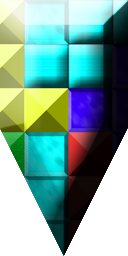
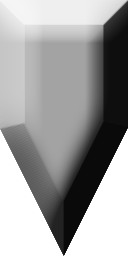
add some tetris 2 sounds. revise the new tetris 2 theme so that the blocks visually connect.

diff --git a/Theme/Block/SNESTetris2Theme.cs b/Theme/Block/SNESTetris2Theme.cs
@@ -74,11 +74,16 @@ namespace BASeTris.Theme.Block
                 }
             }
         }
-
+        //before I go and forget, I'll tag in a comment here that this seems to have glitches related to the new resurrection code, that creates new nominoes, as we are seeing old behaviour where the connections don't quite reflect what the nomino in question should look like.
         public override void ApplyTheme(Nomino Group, IBlockGameCustomizationHandler GameHandler, TetrisField Field, ThemeApplicationReason Reason)
         {
             PrepareThemeData();
-            Dictionary<Point, NominoElement> GroupElements = (from g in Group select g).ToDictionary((ne) => new Point(ne.X, ne.Y));
+            if (Reason == ThemeApplicationReason.FieldSet)
+            {
+                
+                ;
+            }
+            Dictionary<Point, NominoElement> GroupElements = (from g in Group select g).ToDictionary((ne) => new Point(ne.BaseX(), ne.BaseY()));
             foreach (var iterate in Group)
             {
                 Dictionary<LineSeriesBlock.CombiningTypes, SKImage> Sourcedict = null;
@@ -125,23 +130,12 @@ namespace BASeTris.Theme.Block
                         //determine the flags by checking the Nomino.
                         CardinalConnectionSet.ConnectedStyles cs = CardinalConnectionSet.ConnectedStyles.None;
                         //check above
-                        Point North = new Point(iterate.X, iterate.Y-1);
-                        Point South = new Point(iterate.X, iterate.Y + 1);
-                        Point West = new Point(iterate.X - 1, iterate.Y);
-                        Point East = new Point(iterate.X + 1, iterate.Y);
+                        Point North = new Point(iterate.BaseX(), iterate.BaseY()-1);
+                        Point South = new Point(iterate.BaseX(), iterate.BaseY() + 1);
+                        Point West = new Point(iterate.BaseX() - 1, iterate.BaseY());
+                        Point East = new Point(iterate.BaseX() + 1, iterate.BaseY());
 
                         Point[] DirectionPoints = new Point[] { North, South, West, East };
-
-                        if (iterate.Block.Rotation == 1)
-                            DirectionPoints = new Point[] { East, North, South, West };
-                        else if (iterate.Block.Rotation == 2)
-                            DirectionPoints = new Point[] { West, East, North, South };
-                        else if (iterate.Block.Rotation == 3)
-                            DirectionPoints = new Point[] { East, North, South, West };
-
-
-
-                        (Point, CardinalConnectionSet.ConnectedStyles) value;
                         List<(Point, CardinalConnectionSet.ConnectedStyles)> Setuplist = new List<(Point, CardinalConnectionSet.ConnectedStyles)>()
                         {
                             (DirectionPoints[0],CardinalConnectionSet.ConnectedStyles.North),
@@ -160,10 +154,12 @@ namespace BASeTris.Theme.Block
                                 }
                             }
                         }
+                        CardinalConnectionSet.ConnectedStyles[] useConnectionStyles = CardinalConnectionSet.GetRotations(cs).Prepend(cs).ToArray();
 
-
+                        var useRotationImages = from c in useConnectionStyles select NormalConnectedBlocks[chosenType][c];
                         var useImage = NormalConnectedBlocks[chosenType][cs];
-                        ibb._RotationImagesSK =   GetImageRotations(SKBitmap.FromImage(useImage));
+                        ibb._RotationImagesSK = useRotationImages.ToArray();//GetImageRotations(SKBitmap.FromImage(useImage));
+                        //ibb._RotationImagesSK = GetImageRotations(SKBitmap.FromImage(useImage));
 
 
                     }
@@ -178,7 +174,7 @@ namespace BASeTris.Theme.Block
             }
         }
         private bool VisuallyConnectOnlySameCombiningType = false;
-        private bool UseConnectedImages = false;
+        private bool UseConnectedImages = true;
         public override PlayFieldBackgroundInfo GetThemePlayFieldBackground(TetrisField Field, IBlockGameCustomizationHandler GameHandler)
         {
             return new PlayFieldBackgroundInfo(TetrisGame.Imageman["background_3", 0.5f], Color.Transparent);

diff --git a/Theme/Block/CardinalConnectionSet.cs b/Theme/Block/CardinalConnectionSet.cs
@@ -44,6 +44,80 @@ namespace BASeTris.Theme.Block
             {ConnectedStyles.South | ConnectedStyles.West | ConnectedStyles.East,"SWE" },
             {ConnectedStyles.South | ConnectedStyles.North | ConnectedStyles.West | ConnectedStyles.East,"NSWE" }
         };
+
+        public static Dictionary<String,ConnectedStyles> StyleLookup = new Dictionary<String,ConnectedStyles>()
+        {
+            {"",ConnectedStyles.None},
+            {"M",ConnectedStyles.North},
+            {"W",ConnectedStyles.West },
+            {"E",ConnectedStyles.East},
+            {"S",ConnectedStyles.South },
+            {"EW",ConnectedStyles.West | ConnectedStyles.East },
+            {"NS",ConnectedStyles.North| ConnectedStyles.South},
+            {"NE",ConnectedStyles.North | ConnectedStyles.East },
+            {"NW",ConnectedStyles.North | ConnectedStyles.West},
+            {"SW",ConnectedStyles.South | ConnectedStyles.West },
+            {"SE",ConnectedStyles.South | ConnectedStyles.East },
+            {"NSW",ConnectedStyles.North | ConnectedStyles.South  | ConnectedStyles.West },
+            {"NSE",ConnectedStyles.North | ConnectedStyles.South  | ConnectedStyles.East},
+            {"NWE",ConnectedStyles.North | ConnectedStyles.West | ConnectedStyles.East},
+            {"SWE",ConnectedStyles.South | ConnectedStyles.West | ConnectedStyles.East},
+            {"NSWE",ConnectedStyles.South | ConnectedStyles.North | ConnectedStyles.West | ConnectedStyles.East }
+        };
+
+
+        private static Dictionary<ConnectedStyles, ConnectedStyles> RotationStyleLookup = new Dictionary<ConnectedStyles, ConnectedStyles>()
+        {
+            {ConnectedStyles.None,ConnectedStyles.None },
+            {ConnectedStyles.North,ConnectedStyles.East },
+            {ConnectedStyles.East,ConnectedStyles.South },
+            {ConnectedStyles.South,ConnectedStyles.West },
+            {ConnectedStyles.West,ConnectedStyles.North }
+        };
+        public static ConnectedStyles RotateStyle(ConnectedStyles Src)
+        {
+
+            ConnectedStyles Result = ConnectedStyles.None;
+            foreach (ConnectedStyles checkenum in (ConnectedStyles[])Enum.GetValues(typeof(ConnectedStyles)))
+            {
+
+                if (RotationStyleLookup.ContainsKey(checkenum) && Src.HasFlag(checkenum))
+                    Result |= RotationStyleLookup[checkenum];
+
+            }
+
+            return Result;
+
+        }
+        /*private static Dictionary<String, String[]> RotationSuffixLookup = new Dictionary<string, string[]>()
+        {
+            {"", new[]{"","","" } },
+            {"N", new[]{"E","S","W" } },
+            {"E", new[]{"S","W","N" } },
+            {"W", new[]{"N","E","S" } },
+            {"S", new[]{"W","N","E" } },
+            {"EW", new[]{"NS","EW","NS" } },
+            {"NS", new[]{"EW","NS","EW" } },
+            {"NE", new[]{"SE","SW","NW" } },
+            {"SE", new[]{"SW","NW","NE" } },
+            {"SW", new[]{"NW","NE","SE" } },
+            {"NW", new[]{"NE","SE","SW" } },
+            {"NSWE", new[]{"NSWE","NSWE","NSWE" } },
+            {"NSW", new[]{"NWE","NSE","SWE" } },
+            {"NWE", new[]{"NSE","SWE","NSW" } },
+            {"NSE", new[]{"SWE","NSW","NWE" } },
+            {"SWE", new[]{"NSW","NWE","NSE" } }
+
+
+        };*/
+        public static ConnectedStyles[] GetRotations(ConnectedStyles value)
+        {
+            ConnectedStyles Rotate1 = RotateStyle(value);
+            ConnectedStyles Rotate2 = RotateStyle(Rotate1);
+            ConnectedStyles Rotate3 = RotateStyle(Rotate2);
+            return new ConnectedStyles[] { Rotate1, Rotate2, Rotate3 };
+
+        }
         public static String GetSuffix(ConnectedStyles value)
         {
             if (SuffixLookup.ContainsKey(value)) return SuffixLookup[value]; return null;
@@ -100,6 +174,7 @@ namespace BASeTris.Theme.Block
             }
 
         }
+       
         public Element this[ConnectedStyles index]
         {
             get

diff --git a/GameStates/GameHandlers/CascadingBlockHandler.cs b/GameStates/GameHandlers/CascadingBlockHandler.cs
@@ -635,6 +635,7 @@ namespace BASeTris.GameStates.GameHandlers
 
                             if (!AllPoints.Any((w) => AddedPoints.Contains(w)))
                             {
+                                state.PlayField.Theme.ApplyTheme(addresurrected, state.GameHandler, state.PlayField, NominoTheme.ThemeApplicationReason.NewNomino);
                                 state.PlayField.AddBlockGroup(addresurrected);
                                 addresurrected.FallSpeed = 100;
                                 foreach (var point in AllPoints)
@@ -779,8 +780,13 @@ namespace BASeTris.GameStates.GameHandlers
 
                                 int CenterPointX = MinX + NominoWidth / 2;
                                 int CenterPointY = MinY + NominoHeight / 2;
+                                List<NominoElement> newElements = new List<NominoElement>();
+                                foreach (var useresult in NewNominoContents)
+                                {
+                                    useresult.block.Rotation = 0;
+                                    newElements.Add(new NominoElement(new Point(useresult.Column - CenterPointX, useresult.Row - CenterPointY), new Size(NominoWidth, NominoHeight), useresult.block));
+                                }
                                 //construct the new Nomino.
-                                var newElements = from b in NewNominoContents select new NominoElement(new Point(b.Column - CenterPointX, b.Row - CenterPointY), new Size(NominoWidth, NominoHeight), b.block);
                                 //Now, we can go through the NewNominoContents
                                 Nomino BuildResult = new Nomino(newElements);
                                 BuildResult.X = CenterPointX;
@@ -1112,6 +1118,7 @@ namespace BASeTris.GameStates.GameHandlers
 
         public virtual IHighScoreList GetHighScores()
         {
+            return (IHighScoreList)TetrisGame.ScoreMan[this.Name];
             return null;
             //throw new NotImplementedException();
         }

diff --git a/GameStates/StandardTetrisGameState.cs b/GameStates/StandardTetrisGameState.cs
@@ -31,6 +31,7 @@ using BASeTris.Settings;
 using BASeTris.Theme;
 using BASeTris.Particles;
 using System.Security.Cryptography;
+using static System.Windows.Forms.AxHost;
 
 namespace BASeTris.GameStates
 {
@@ -1255,6 +1256,7 @@ namespace BASeTris.GameStates
                                 Flotsam.Y = activeItem.Y - YOffset;
                                 Flotsam.FallSpeed = activeItem.FallSpeed;
                                 Flotsam.LastFall = pOwner.GetElapsedTime();
+                                PlayField.Theme.ApplyTheme(Flotsam, pOwner.GetHandler(), PlayField, NominoTheme.ThemeApplicationReason.NewNomino);
                                 PlayField.AddBlockGroup(Flotsam);
                                 //connectionindex won't matter anymore- we could make it zero or leave it be or whatever we want here.
                                 

diff --git a/GameStates/GameHandlers/DrMarioHandler.cs b/GameStates/GameHandlers/DrMarioHandler.cs
@@ -66,6 +66,7 @@ namespace BASeTris.GameStates.GameHandlers
         {
             return "Dr.Mario";
         }
+        
         private BlockGroupChooser _Chooser = null;
         public override BlockGroupChooser GetChooser(IStateOwner pOwner)
         {
